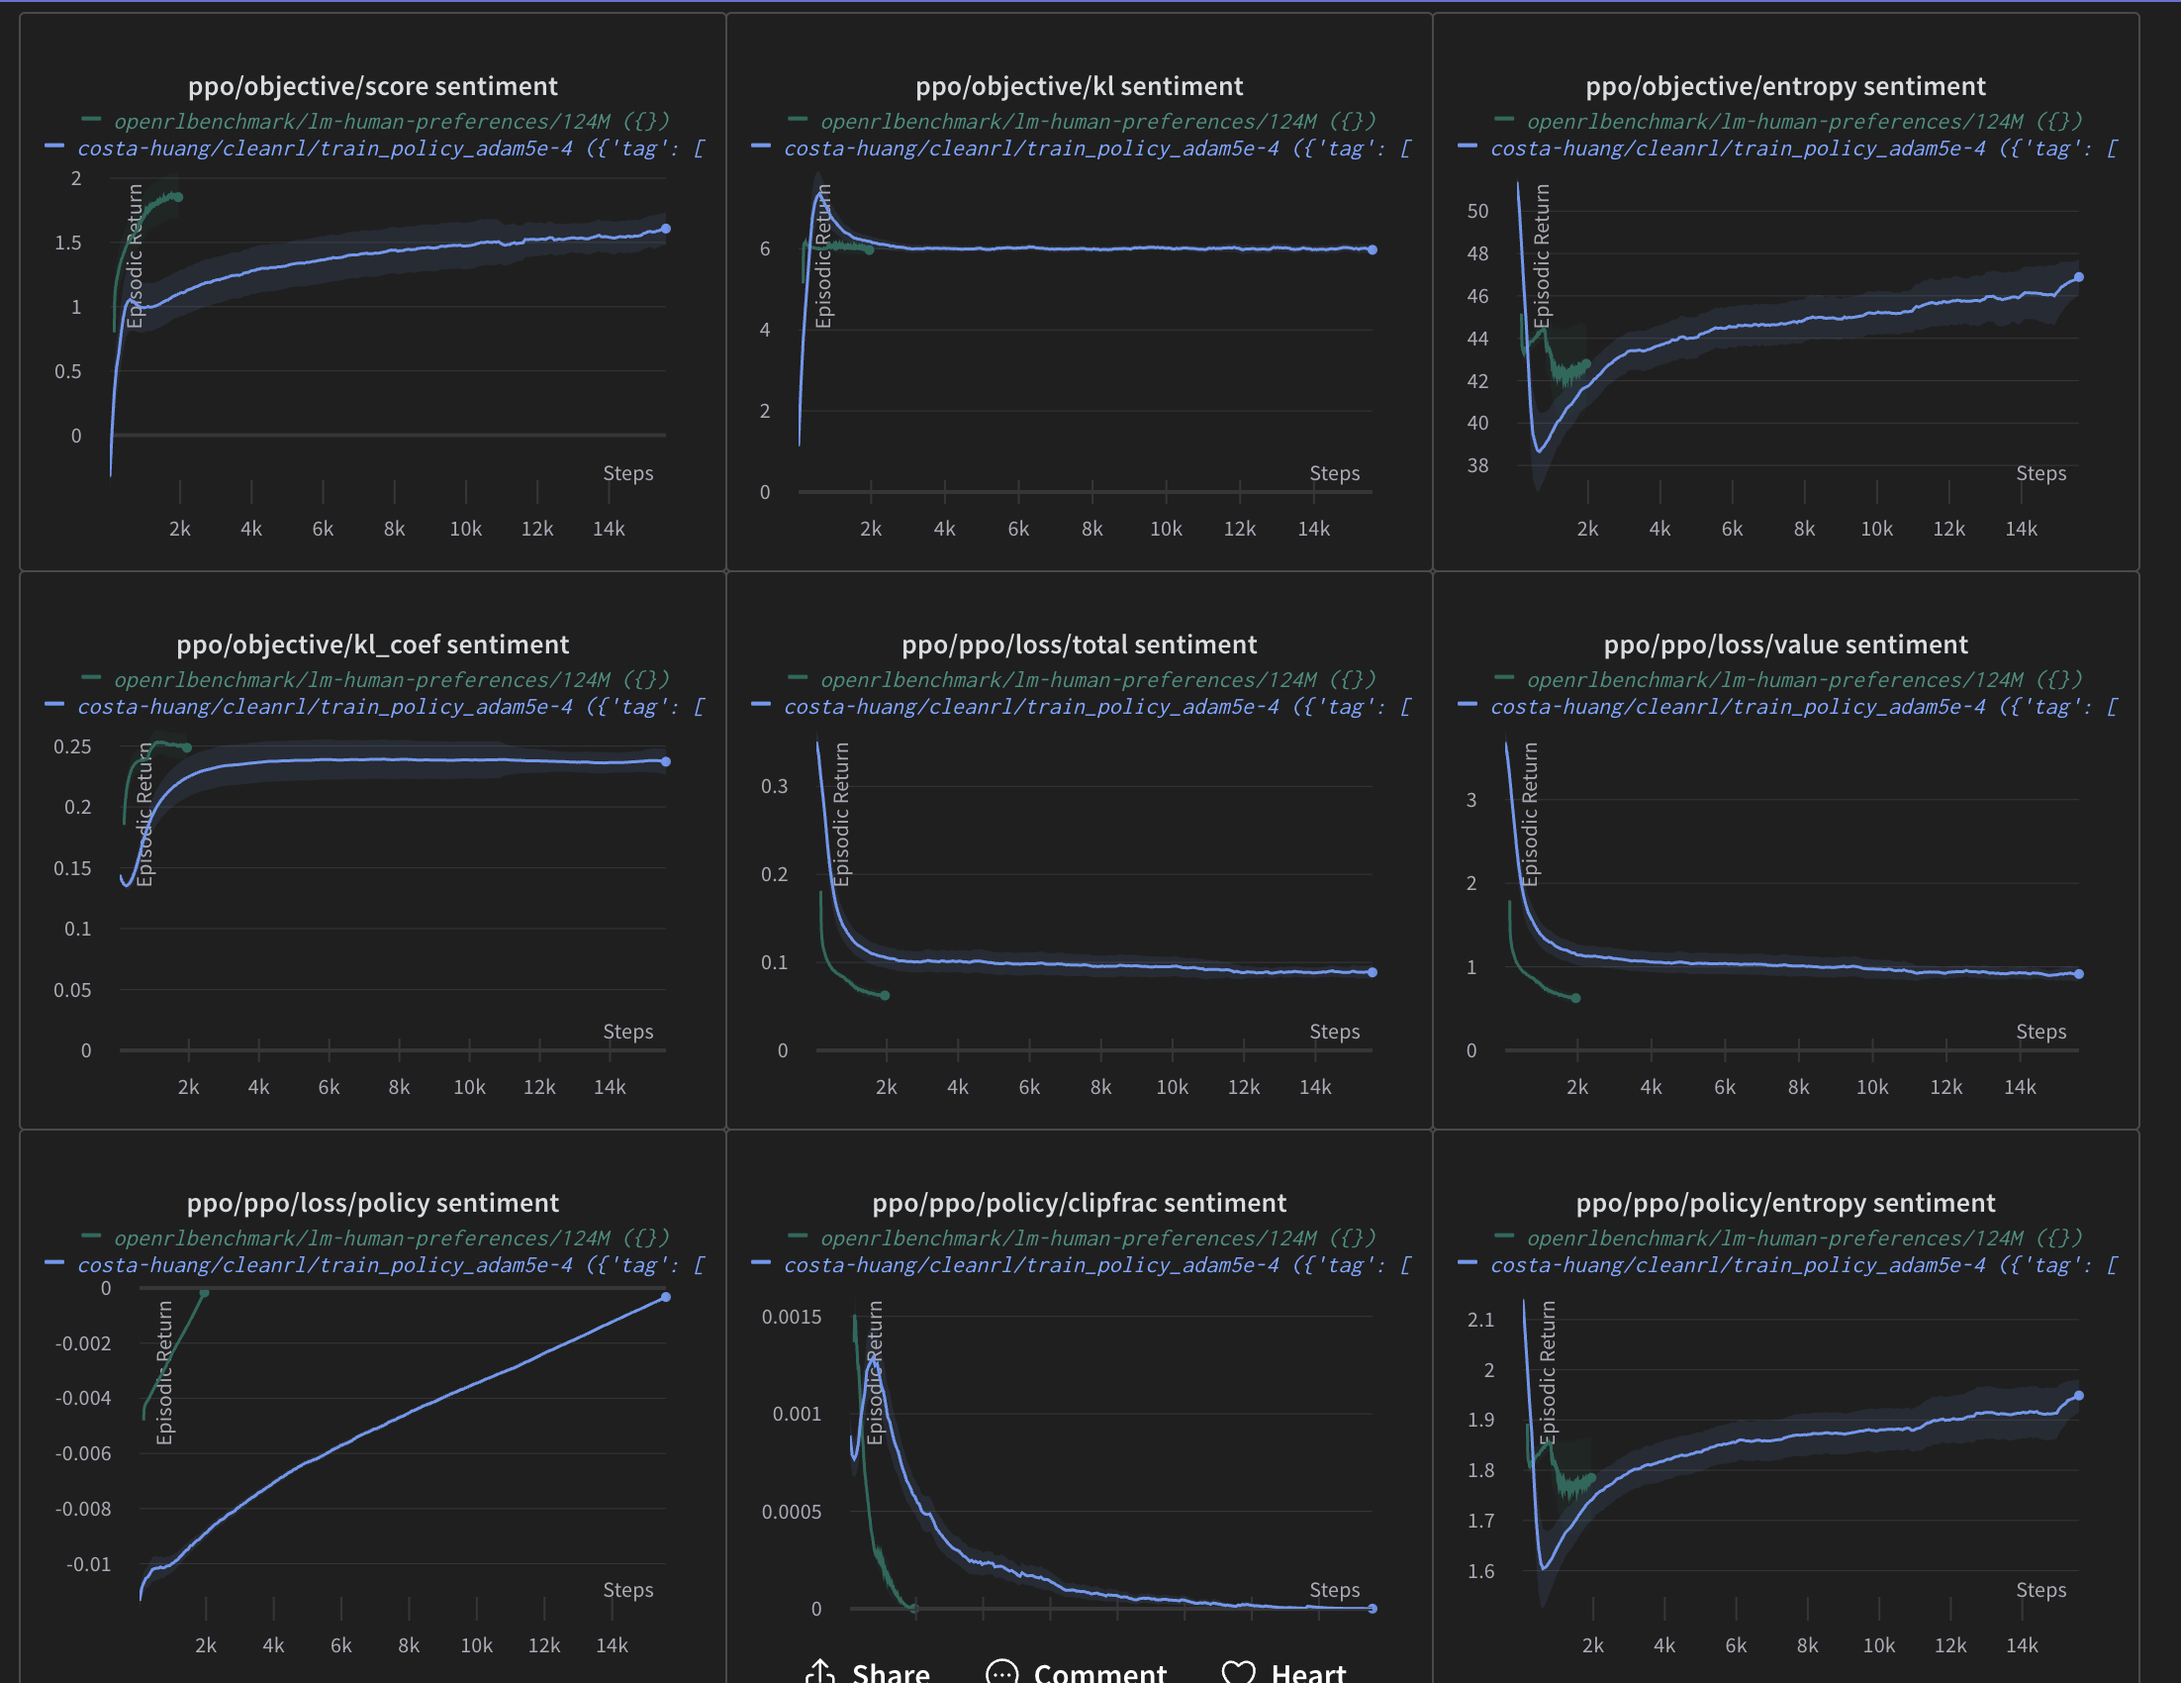
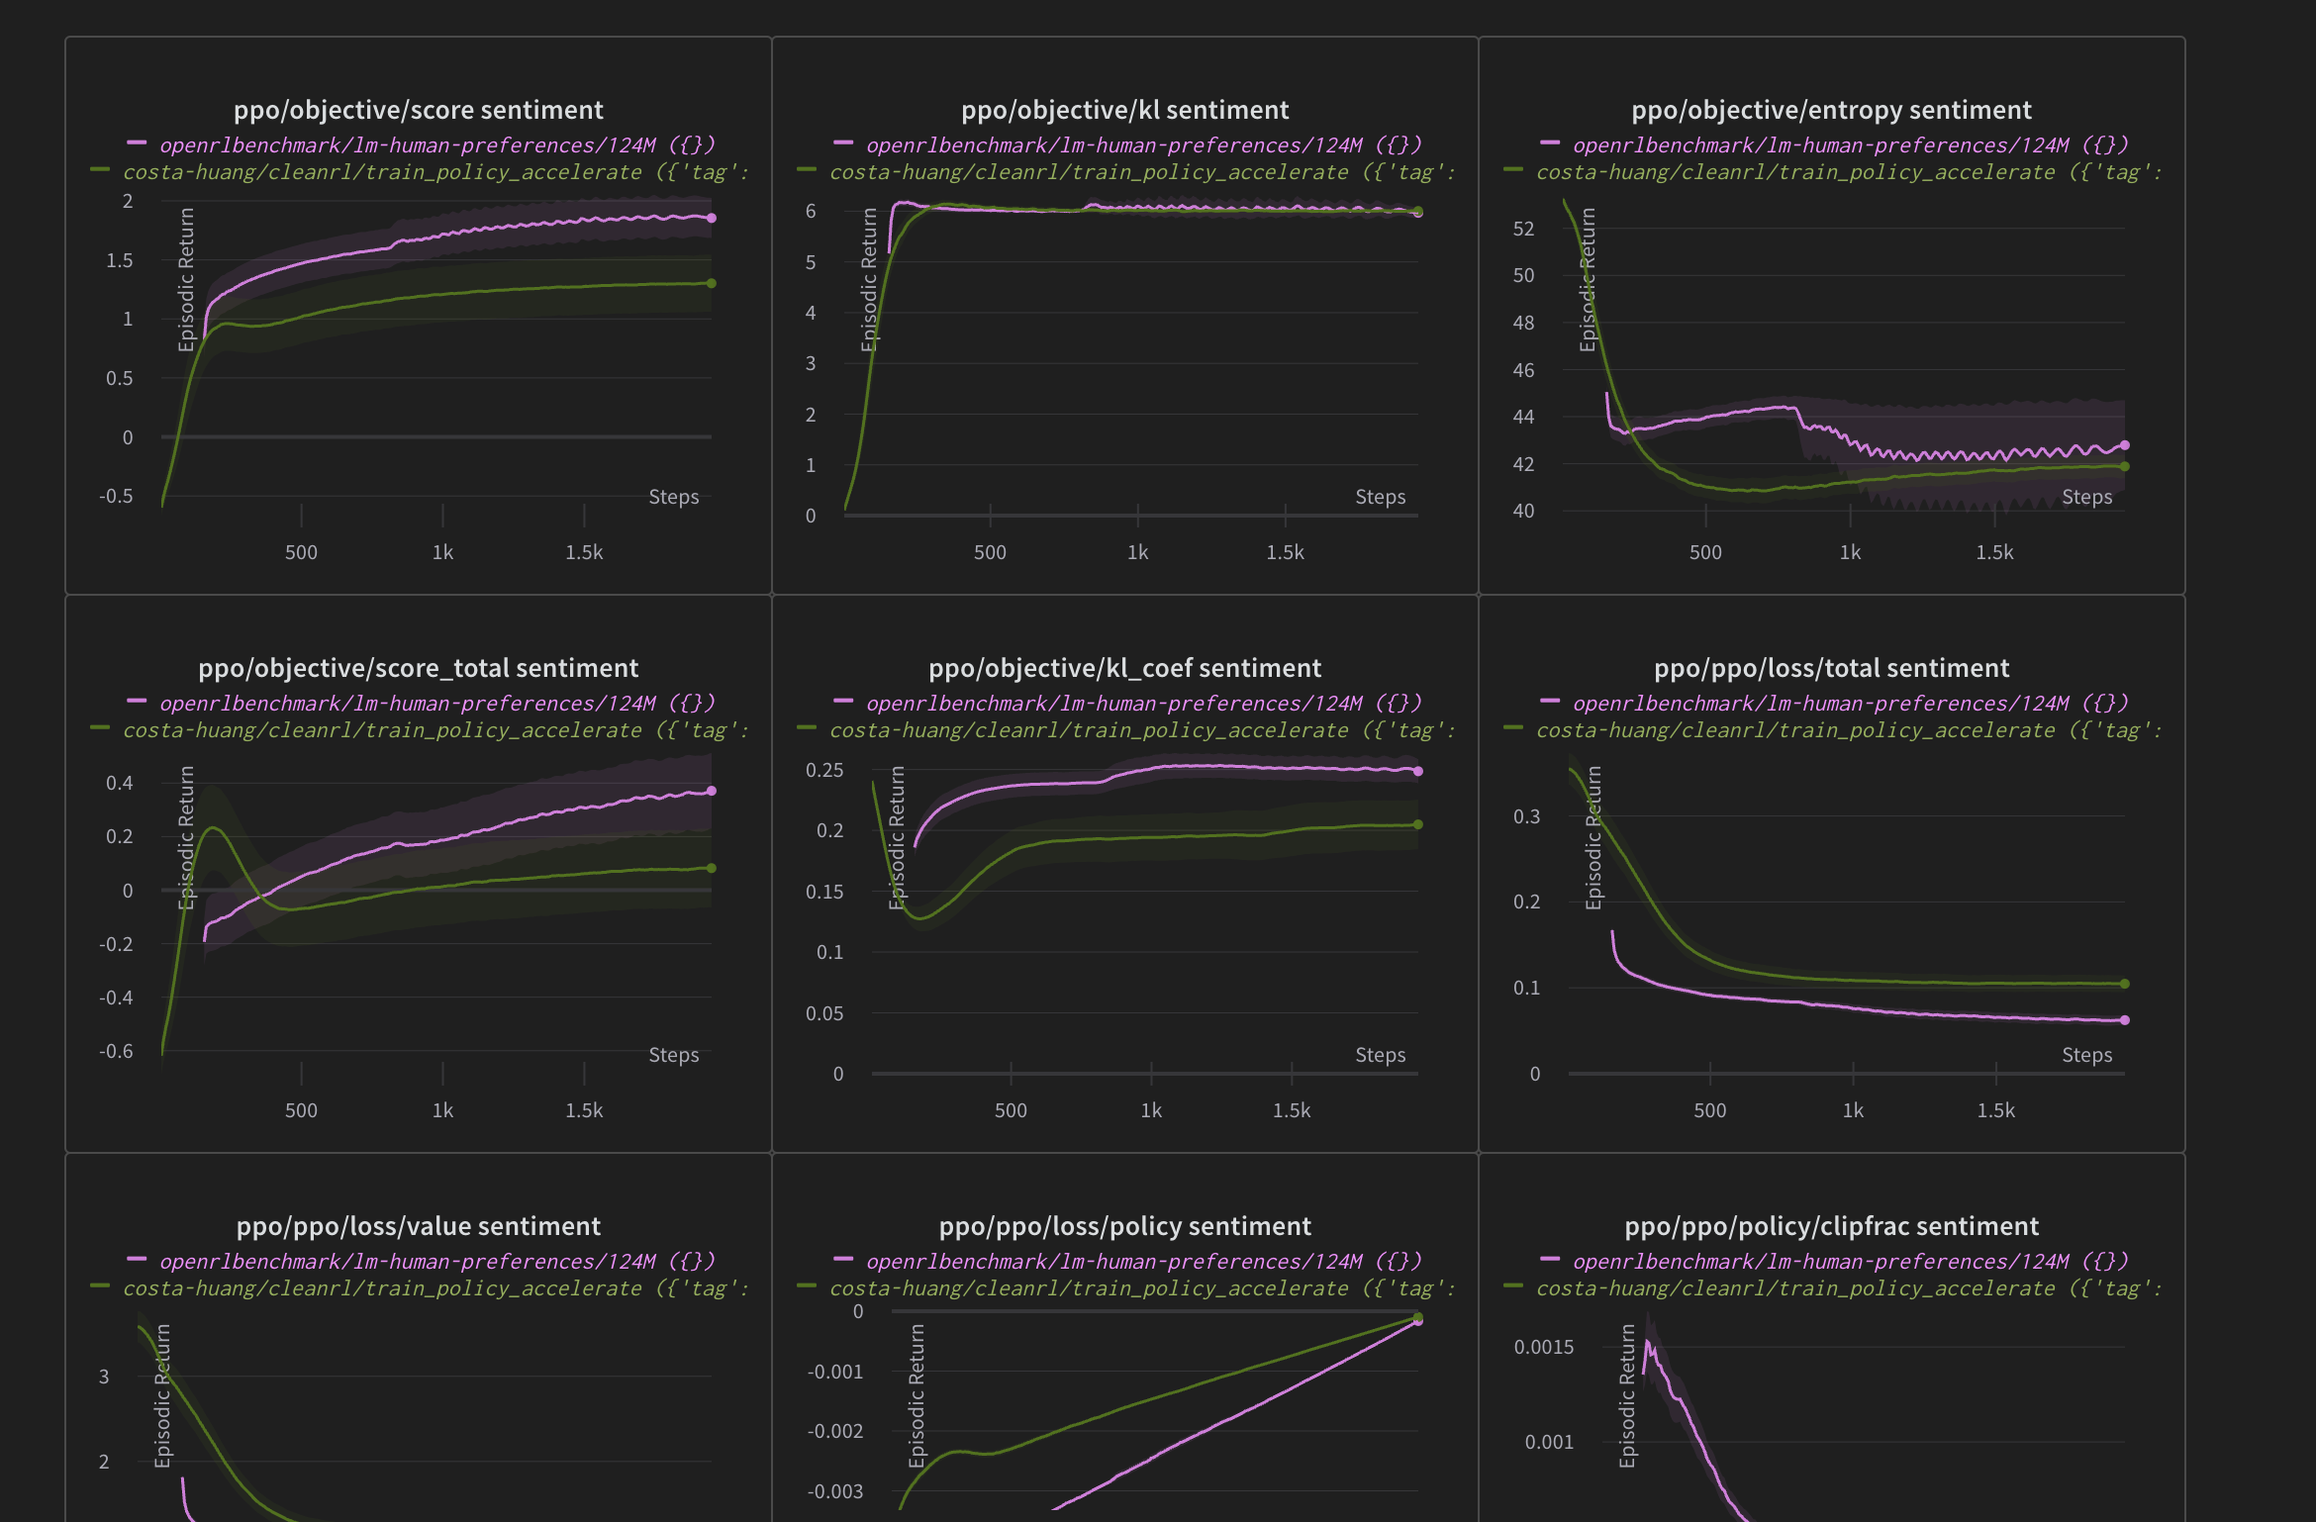
push changes

diff --git a/README.md b/README.md
@@ -14,35 +14,50 @@ This repo is just for educational / learning purposes. For more advanced users, 
 
 ```
 poetry install
-python lm_human_preference_details/train_both.py --reward.track --policy.track
+accelerate launch \
+    --num_processes 8 \
+    lm_human_preference_details/train_both_accelerate.py \
+    --reward.track --policy.track
+accelerate launch \
+    --num_processes 8 \
+    lm_human_preference_details/train_both_accelerate.py \
+    --reward.track \
+    --reward.label_dataset=descriptiveness/offline_5k.json \
+    --policy.track
 ```
 
 You can also run stuff individually. For example, to train the reward model, run
 ```
-python lm_human_preference_details/train_reward.py
+accelerate launch \
+    --num_processes 1 \
+    lm_human_preference_details/train_reward.py \
+    --track
 ```
 
 to train the policy model, run
 ```
-python lm_human_preference_details/train_policy.py
+accelerate launch \
+    --num_processes 1 \
+    lm_human_preference_details/train_policy.py \
+    --track
 ```
 
 
 
 ## Current status
 
-Currently for a reproduction, I used the same dataset, same data processing pipeline, same initial model architecture and weights (`gpt2` 124M pretrained model). Hyperparameters are exactly the same except for 1) the `batch_size` which I set to 64 instead of 512 because I haven't got multi gpu set up yet and 2) adam `eps` which I used `5e-4` instead of `1e-5`.
+Currently for a reproduction, I used the same dataset, same data processing pipeline, same initial model architecture and weights (`gpt2` 124M pretrained model). Hyperparameters are exactly the same except for the adam optimizer's `eps` which I used `5e-4` instead of `1e-5` for better stability
 
-In the following chart out of 10 random seeds, I trained for 8x more steps because I used a 8x smaller batch size. 2 runs crashed (negative KL divergence)
+In the following chart out of 10 random seeds
 ```
 pip install openrlbenchmark==0.2.1a4
 python -m openrlbenchmark.rlops_multi_metrics \
-    --filters '?we=openrlbenchmark&wpn=lm-human-preferences&ceik=task_id&cen=task.value.policy.initial_model&metrics=ppo/objective/score&metrics=ppo/objective/kl&metrics=ppo/objective/entropy&metrics=ppo/objective/kl_coef&metrics=ppo/ppo/loss/total&metrics=ppo/ppo/loss/value&metrics=ppo/ppo/loss/policy&metrics=ppo/ppo/policy/clipfrac&metrics=ppo/ppo/policy/entropy&metrics=ppo/ppo/returns/mean&metrics=ppo/ppo/policy/approxkl&metrics=ppo/ppo/val/clipfrac&metrics=ppo/ppo/val/error&metrics=ppo/ppo/val/mean&metrics=ppo/ppo/returns/var&metrics=ppo/ppo/val/vpred' \
+    --filters '?we=openrlbenchmark&wpn=lm-human-preferences&ceik=task_id&cen=task.value.policy.initial_model&metrics=ppo/objective/score&metrics=ppo/objective/kl&metrics=ppo/objective/entropy&metrics=ppo/objective/score_total&metrics=ppo/objective/kl_coef&metrics=ppo/ppo/loss/total&metrics=ppo/ppo/loss/value&metrics=ppo/ppo/loss/policy&metrics=ppo/ppo/policy/clipfrac&metrics=ppo/ppo/policy/entropy&metrics=ppo/ppo/returns/mean&metrics=ppo/ppo/policy/approxkl&metrics=ppo/ppo/val/clipfrac&metrics=ppo/ppo/val/error&metrics=ppo/ppo/val/mean&metrics=ppo/ppo/returns/var&metrics=ppo/ppo/val/vpred' \
         '124M' \
-    --filters '?we=costa-huang&wpn=cleanrl&ceik=base_model&cen=exp_name&metrics=objective/scores&metrics=objective/kl&metrics=objective/entropy&metrics=objective/kl_coef&metrics=ppo/loss/total&metrics=ppo/loss/value&metrics=ppo/loss/policy&metrics=ppo/policy/clipfrac&metrics=ppo/policy/entropy&metrics=ppo/returns/mean&metrics=ppo/policy/approxkl&metrics=ppo/val/clipfrac&metrics=ppo/val/error&metrics=ppo/val/mean&metrics=ppo/returns/var&metrics=ppo/val/vpred' \
-        'train_policy_adam5e-4?tag=v0.1.0-9-gc56a4aa' \
-    --env-ids sentiment \
-    --env-ids gpt2 \
+    --filters '?we=costa-huang&wpn=cleanrl&ceik=rewards.value.label_dataset&cen=exp_name&metrics=objective/scores&metrics=objective/kl&metrics=objective/entropy&metrics=objective/score_total&metrics=objective/kl_coef&metrics=ppo/loss/total&metrics=ppo/loss/value&metrics=ppo/loss/policy&metrics=ppo/policy/clipfrac&metrics=ppo/policy/entropy&metrics=ppo/returns/mean&metrics=ppo/policy/approxkl&metrics=ppo/val/clipfrac&metrics=ppo/val/error&metrics=ppo/val/mean&metrics=ppo/returns/var&metrics=ppo/val/vpred' \
+        'train_policy_accelerate?tag=v0.1.0-20-gd63c6c3' \
+    --env-ids sentiment descriptiveness \
+    --env-ids sentiment/offline_5k.json  descriptiveness/offline_5k.json \
     --no-check-empty-runs \
     --pc.ncols 5 \
     --pc.ncols-legend 1 \
@@ -51,11 +66,8 @@ python -m openrlbenchmark.rlops_multi_metrics \
 ``` 
 ![](static/ours1.png)
 
-If we remove those two runs, we get the following chart. The learning curves of scores and kl are more similar, but some key ones like `approxkl` and `clipfrac` are still very different. I think it's related to adam's `eps` and `batch_size` but I'm not sure yet.
-![](static/ours2.png)
 
-
-Wandb report is availible at https://wandb.ai/costa-huang/cleanrl/reports/Regression-Report-train_policy_adam5e-4--Vmlldzo0ODY0NTcx. Feel free to check out the logs of the runs for sample outputs.
+Wandb report is availible at https://wandb.ai/costa-huang/cleanrl/reports/Regression-Report-train_policy_accelerate--Vmlldzo0ODk0MjM2. Feel free to check out the logs of the runs for sample outputs.
 
 ![](static/wandb.png)
 
@@ -79,39 +91,22 @@ Wandb report is availible at https://wandb.ai/costa-huang/cleanrl/reports/Regres
     kl = +11.00
     total = +0.55
     ```
-* https://wandb.ai/costa-huang/cleanrl/runs/dwzlccuz/logs
+* https://wandb.ai/costa-huang/cleanrl/runs/fu902lyc/logs
     * 
     ```
-    a ceiling fan turns slowly, but the air is too hot to bring relief to the two
-    employees, who gasp in silence taking care to move as little as possible.
-    I am not sure I want to be so proud of this guy who is beating me up to make me
-    feel
-    score: -1.0
-    ppo_epoch_idx=0 approxkl 0.0 pg_loss -9.934107758624577e-09 pg_clipfrac 0.0 ratio 1.0
-    ppo_epoch_idx=1 approxkl 1.3752442100667395e-06 pg_loss -0.0004425048828125 pg_clipfrac 0.0 ratio 0.9999474287033081
-    ppo_epoch_idx=2 approxkl 6.730375389452092e-06 pg_loss -0.0013246238231658936 pg_clipfrac 0.0 ratio 0.9999170303344727
-    ppo_epoch_idx=3 approxkl 1.9258663087384775e-05 pg_loss -0.0025948286056518555 pg_clipfrac 0.0 ratio 0.9999091029167175
-    `eos_token_id` has to be a list of positive integers, but is [-1]
-    `` oh, hell.
-    ... ( she's beautiful ), I love her... son... ( she's a brilliant
-    score: -1.0
-    ppo_epoch_idx=0 approxkl 0.0 pg_loss 4.967053879312289e-09 pg_clipfrac 0.0 ratio 1.0
-    ppo_epoch_idx=1 approxkl 2.0852239686064422e-06 pg_loss -0.000502822338603437 pg_clipfrac 0.0 ratio 1.0000027418136597
-    ppo_epoch_idx=2 approxkl 9.676776244305074e-06 pg_loss -0.0014783641090616584 pg_clipfrac 0.0 ratio 0.9999942779541016
-    `eos_token_id` has to be a list of positive integers, but is [-1]
-    ppo_epoch_idx=3 approxkl 2.604015389806591e-05 pg_loss -0.0028671249747276306 pg_clipfrac 0.0 ratio 0.9999818205833435
-    her heart was breaking and she didn't give a flying flip how she looked.
-    .. but that's what she did. She was so happy. She was so happy. And she was so
-    happy
-    score: 2.659555435180664
-    ppo_epoch_idx=0 approxkl 0.0 pg_loss 0.0 pg_clipfrac 0.0 ratio 1.0
-    ppo_epoch_idx=1 approxkl 1.723802824926679e-06 pg_loss -0.0004410346446093172 pg_clipfrac 0.0 ratio 0.9999834895133972
-    ppo_epoch_idx=2 approxkl 7.602007826790214e-06 pg_loss -0.0013047655811533332 pg_clipfrac 0.0 ratio 0.9999467134475708
-    ppo_epoch_idx=3 approxkl 2.0069819584023207e-05 pg_loss -0.0025421481113880873 pg_clipfrac 0.0 ratio 0.9998971819877625
-    black blood trickles from the mens heads, and i step closer for a better look.
-    I was excited to see how this dress would turn out in black. I had a lot of fun.
-    It
-    score: 2.316013097
+    query: he was quiet for a minute, his eyes unreadable.
+    response: " I'm so glad you're here. It's been a long time since we've known each other.
+    score: 0.5942718982696533, kl: 7.33388090133667, total reward: -0.45726191997528076
+
+    query: she knew she shouldn't, but she reached out to capture that particular hand
+    before he could go.
+    response: That was all that mattered.
+    "I'm glad to see you're happy," she said.
+    score: 2.0057406425476074, kl: 6.900775909423828, total reward: 1.025254249572754
+
+    query: she offered a tense shrug before reaching for the door handle.
+    response: "We're going to be fine," he said, "and we're going to be okay.
+    score: 0.9820655584335327, kl: 7.899775505065918, total reward: -0.15402913093566895
     ```
 
 ## Learning curves of `openai/lm-human-preferences`
